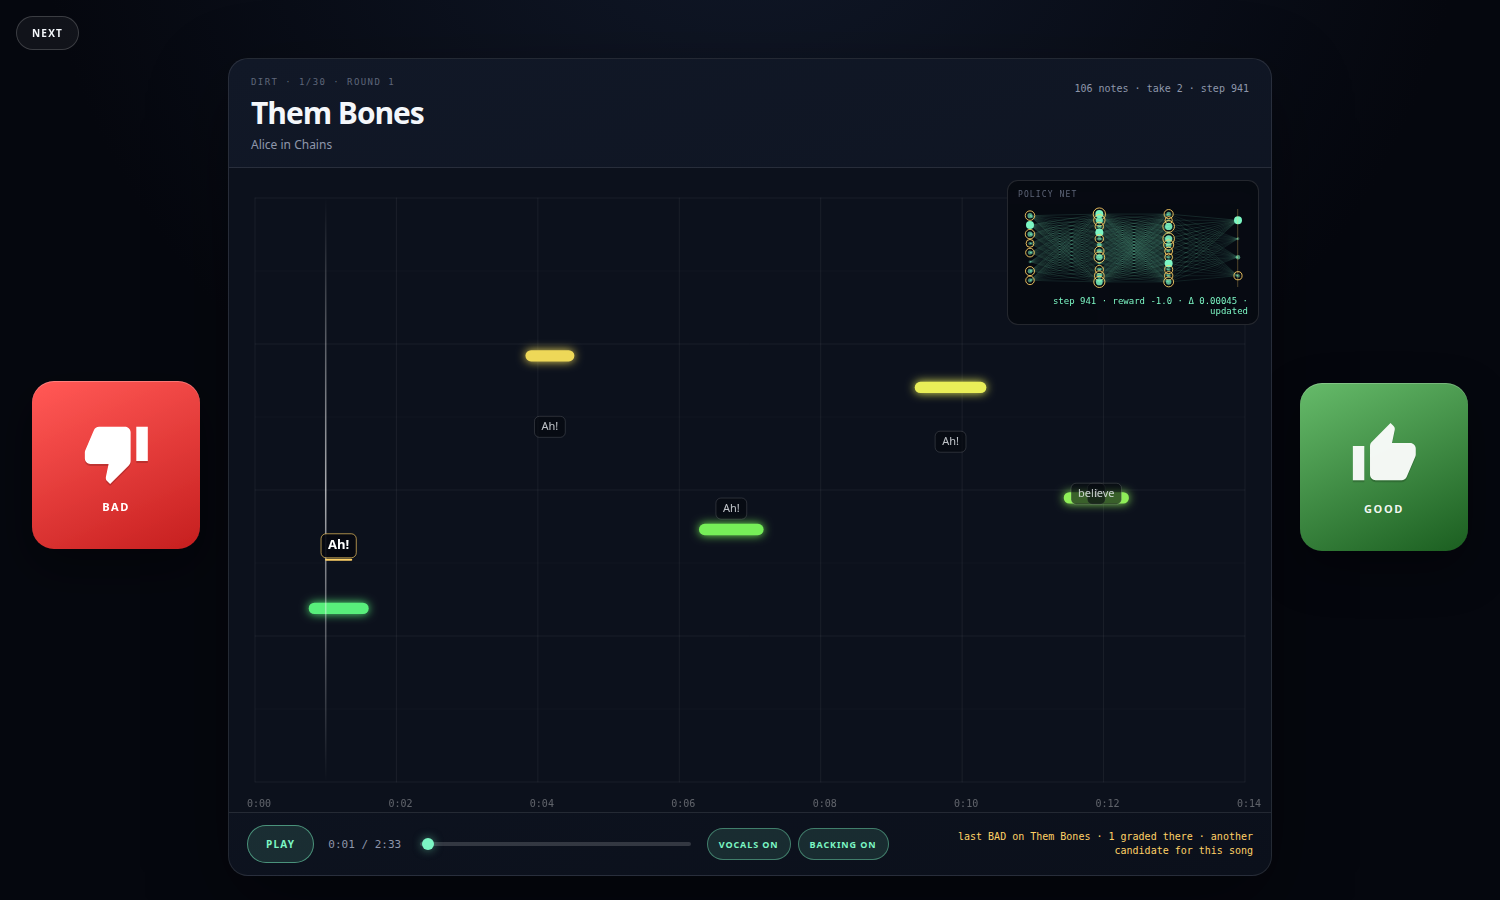
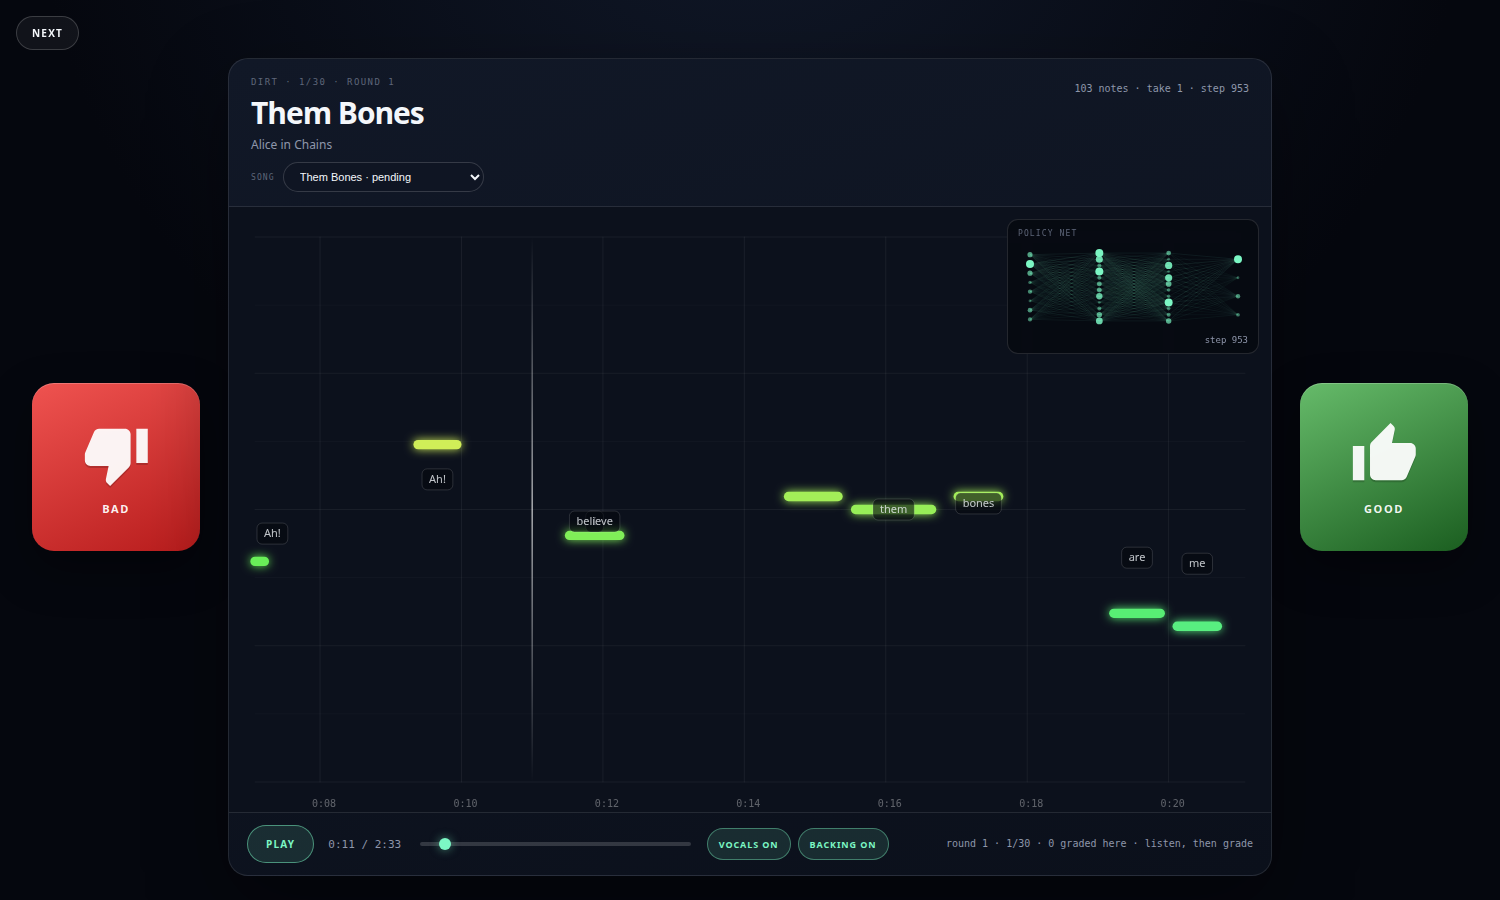
Ignore browser disconnects and add a song picker
Wraps JSON/static/audio responses against BrokenPipeError and ConnectionResetError, and uses a quiet HTTP server so navigating away during a long generation no longer prints tracebacks. Adds a SONG picker grouped by Dirt, Facelift and Jar of Flies; targets with a waiting candidate are marked pending and resume when selected. The state now includes target progress, and selecting a new song saves the queue position before generating or resuming. Also updates the UI screenshot.

diff --git a/automap/automap/ui_assets/app.js b/automap/automap/ui_assets/app.js
@@ -2,6 +2,7 @@ const $ = (id) => document.getElementById(id);
 const canvas = $('canvas');
 const networkCanvas = $('networkCanvas');
 const networkMeta = $('networkMeta');
+const songSelect = $('songSelect');
 const vocals = $('vocals');
 const backing = $('backing');
 const seek = $('seek');
@@ -109,11 +110,39 @@ function statusFor(state) {
       }
       return `last ${good ? 'GOOD' : 'BAD'} on ${event.title} · ${event.grades_for_song || 0} graded there · next ${state.next_title}`;
     }
+    if (event.kind === 'select') {
+      $('status').className = 'status';
+      return `switched to ${event.title} · ${event.grades_for_song || 0} graded there · listen, then grade`;
+    }
     $('status').className = 'status';
     return `skipped ${event.title} · next ${state.next_title}`;
   }
   $('status').className = 'status';
   return `round ${state.round} · ${state.song_index}/${state.song_total} · ${state.grades_for_song} graded here · listen, then grade`;
+}
+
+function populateSongSelect() {
+  if (!state || !Array.isArray(state.targets)) return;
+  const albums = new Map();
+  for (const target of state.targets) {
+    if (!albums.has(target.album)) albums.set(target.album, []);
+    albums.get(target.album).push(target);
+  }
+  songSelect.replaceChildren();
+  for (const [album, targets] of albums) {
+    const group = document.createElement('optgroup');
+    group.label = album;
+    for (const target of targets) {
+      const option = document.createElement('option');
+      option.value = target.song_id;
+      const suffix = target.pending ? ' · pending' : target.graded ? ` · ${target.graded} graded` : '';
+      option.textContent = `${target.title}${suffix}`;
+      group.append(option);
+    }
+    songSelect.append(group);
+  }
+  songSelect.value = state.song_id;
+  songSelect.disabled = busy;
 }
 
 function applyState(next) {
@@ -134,6 +163,7 @@ function applyState(next) {
   $('artist').textContent = state.artist || '';
   $('meta').textContent = `${state.note_count} notes · take ${state.generated_for_song} · step ${state.model_step}`;
   $('status').textContent = statusFor(state);
+  populateSongSelect();
 
   if (songChanged) {
     pauseAll();
@@ -445,9 +475,13 @@ function setBusy(value, message) {
   $('down').disabled = value;
   $('up').disabled = value;
   $('next').disabled = value;
+  songSelect.disabled = value;
   $('loading').hidden = !value;
   if (message) $('loading-text').textContent = message;
-  if (!value) draw();
+  if (!value) {
+    draw();
+    populateSongSelect();
+  }
 }
 
 async function request(url, options = {}) {
@@ -518,6 +552,26 @@ function sendPosition(beacon = false) {
 $('down').addEventListener('click', () => grade(1));
 $('up').addEventListener('click', () => grade(5));
 $('next').addEventListener('click', nextCandidate);
+songSelect.addEventListener('change', async () => {
+  if (!state || busy) return;
+  const songId = songSelect.value;
+  if (songId === state.song_id) return;
+  const target = (state.targets || []).find((item) => item.song_id === songId);
+  setBusy(true, `Loading ${target ? target.title : 'song'}…`);
+  try {
+    const payload = await request('/api/song', {
+      method: 'POST',
+      headers: { 'Content-Type': 'application/json' },
+      body: JSON.stringify({ song_id: songId })
+    });
+    applyState(payload.state);
+  } catch (error) {
+    $('status').textContent = String(error.message || error);
+    songSelect.value = state.song_id;
+  } finally {
+    setBusy(false);
+  }
+});
 $('vocalsToggle').addEventListener('click', () => {
   vocalsOn = !vocalsOn;
   updateToggleLabels();

diff --git a/automap/automap/ui_assets/styles.css b/automap/automap/ui_assets/styles.css
@@ -119,6 +119,32 @@ h1 {
   color: var(--muted);
   font-size: 12px;
 }
+.song-picker {
+  display: flex;
+  align-items: center;
+  gap: 8px;
+  margin-top: 9px;
+}
+.song-picker label {
+  color: var(--muted-2);
+  font-family: ui-monospace, SFMono-Regular, Menlo, monospace;
+  font-size: 8px;
+  letter-spacing: 0.14em;
+}
+#songSelect {
+  min-height: 30px;
+  max-width: min(380px, 52vw);
+  padding: 0 12px;
+  border: 1px solid rgba(255, 255, 255, 0.16);
+  border-radius: 999px;
+  background: #0f1523;
+  color: var(--ink);
+  font-size: 11px;
+  outline: none;
+  cursor: pointer;
+}
+#songSelect:focus { border-color: rgba(124, 247, 196, 0.6); }
+#songSelect:disabled { opacity: 0.4; cursor: default; }
 .meta {
   color: var(--muted);
   font-family: ui-monospace, SFMono-Regular, Menlo, monospace;

diff --git a/automap/automap/ui_assets/index.html b/automap/automap/ui_assets/index.html
@@ -23,6 +23,10 @@
           <div class="eyebrow" id="queue">AUTOGENERATED MAP</div>
           <h1 id="title">Loading…</h1>
           <p id="artist"></p>
+          <div class="song-picker">
+            <label for="songSelect">SONG</label>
+            <select id="songSelect" aria-label="Choose a song"></select>
+          </div>
         </div>
         <div class="meta" id="meta"></div>
       </header>

diff --git a/automap/automap/ui.py b/automap/automap/ui.py
@@ -4,6 +4,7 @@ from __future__ import annotations
 
 import json
 import mimetypes
+import sys
 import threading
 import webbrowser
 from http.server import BaseHTTPRequestHandler, ThreadingHTTPServer
@@ -141,6 +142,22 @@ class Session:
         except Exception:
             return None
 
+    def _targets_payload(self) -> list[dict[str, Any]]:
+        payload: list[dict[str, Any]] = []
+        for target in self.targets:
+            progress = self.queue.songs.get(target.song_id, {})
+            payload.append(
+                {
+                    "song_id": target.song_id,
+                    "title": target.title,
+                    "album": target.album,
+                    "graded": int(progress.get("graded") or 0),
+                    "generated": int(progress.get("generated") or 0),
+                    "pending": load_pending(target.song_id) is not None,
+                }
+            )
+        return payload
+
     def _set_state(self, info: dict[str, Any]) -> None:
         target = self.current_target
         song = self.current_song
@@ -191,6 +208,7 @@ class Session:
             "generated_for_song": int(progress.get("generated") or 0),
             "last_event": self.last_event,
             "network": self._network_summary(),
+            "targets": self._targets_payload(),
             "next_title": next_target.title,
             "next_album": next_target.album,
         }
@@ -243,6 +261,38 @@ class Session:
             self._set_state(info)
             return
         raise RuntimeError("could not generate any target: " + "; ".join(errors))
+
+    def choose_song(self, song_id: str) -> dict[str, Any]:
+        with self.lock:
+            index = self._target_index(song_id)
+            if index is None:
+                raise RuntimeError(f"{song_id} is not a generation target")
+            if self.current_target is not None and self.current_target.song_id == song_id:
+                return self.state or {}
+            target = self.targets[index]
+            self.queue.current_song_id = target.song_id
+            self.queue.next_index = (index + 1) % len(self.targets)
+            progress = self.queue.songs.get(target.song_id, {})
+            self.last_event = {
+                "kind": "select",
+                "grade": 0,
+                "reward": 0.0,
+                "title": target.title,
+                "album": target.album,
+                "grades_for_song": int(progress.get("graded") or 0),
+            }
+            save_queue(self.queue)
+            pending = load_pending(target.song_id)
+            song = self._song(target.song_id)
+            self.current_target = target
+            self.current_song = song
+            if pending is not None:
+                self._set_state_from_pending(pending, target, song)
+            else:
+                info = generate_candidate(target.song_id, install=self.install)
+                mark_generated(self.queue, self.targets, index, target, info)
+                self._set_state(info)
+            return self.state or {}
 
     def _generate_same(self) -> None:
         if self.current_target is None or self.current_song is None:
@@ -343,12 +393,15 @@ class Handler(BaseHTTPRequestHandler):
 
     def _send_json(self, status: int, payload: dict[str, Any]) -> None:
         body = json.dumps(payload, ensure_ascii=False).encode("utf-8")
-        self.send_response(status)
-        self.send_header("Content-Type", "application/json; charset=utf-8")
-        self.send_header("Content-Length", str(len(body)))
-        self.send_header("Cache-Control", "no-store")
-        self.end_headers()
-        self.wfile.write(body)
+        try:
+            self.send_response(status)
+            self.send_header("Content-Type", "application/json; charset=utf-8")
+            self.send_header("Content-Length", str(len(body)))
+            self.send_header("Cache-Control", "no-store")
+            self.end_headers()
+            self.wfile.write(body)
+        except (BrokenPipeError, ConnectionResetError):
+            self.close_connection = True
 
     def _send_static(self, name: str) -> None:
         path = ASSET_DIR / name
@@ -357,12 +410,15 @@ class Handler(BaseHTTPRequestHandler):
             return
         body = path.read_bytes()
         content_type = mimetypes.guess_type(name)[0] or "application/octet-stream"
-        self.send_response(200)
-        self.send_header("Content-Type", content_type)
-        self.send_header("Content-Length", str(len(body)))
-        self.send_header("Cache-Control", "no-store")
-        self.end_headers()
-        self.wfile.write(body)
+        try:
+            self.send_response(200)
+            self.send_header("Content-Type", content_type)
+            self.send_header("Content-Length", str(len(body)))
+            self.send_header("Cache-Control", "no-store")
+            self.end_headers()
+            self.wfile.write(body)
+        except (BrokenPipeError, ConnectionResetError):
+            self.close_connection = True
 
     def _audio_path(self, kind: str) -> Path | None:
         song = self.session.current_song
@@ -403,14 +459,18 @@ class Handler(BaseHTTPRequestHandler):
             except ValueError:
                 start, end, status = 0, size - 1, 200
         length = end - start + 1
-        self.send_response(status)
-        self.send_header("Content-Type", content_type)
-        self.send_header("Content-Length", str(length))
-        self.send_header("Accept-Ranges", "bytes")
-        self.send_header("Cache-Control", "no-store")
-        if status == 206:
-            self.send_header("Content-Range", f"bytes {start}-{end}/{size}")
-        self.end_headers()
+        try:
+            self.send_response(status)
+            self.send_header("Content-Type", content_type)
+            self.send_header("Content-Length", str(length))
+            self.send_header("Accept-Ranges", "bytes")
+            self.send_header("Cache-Control", "no-store")
+            if status == 206:
+                self.send_header("Content-Range", f"bytes {start}-{end}/{size}")
+            self.end_headers()
+        except (BrokenPipeError, ConnectionResetError):
+            self.close_connection = True
+            return
         if head_only:
             return
         try:
@@ -473,7 +533,7 @@ class Handler(BaseHTTPRequestHandler):
 
     def do_POST(self) -> None:
         path = urlparse(self.path).path
-        if path not in {"/api/grade", "/api/next", "/api/position"}:
+        if path not in {"/api/grade", "/api/next", "/api/song", "/api/position"}:
             self.send_error(404)
             return
         length = int(self.headers.get("Content-Length") or 0)
@@ -489,12 +549,18 @@ class Handler(BaseHTTPRequestHandler):
                     float(payload.get("seconds") or 0.0),
                     payload.get("candidate_id"),
                 )
-                self.send_response(204)
-                self.end_headers()
+                try:
+                    self.send_response(204)
+                    self.end_headers()
+                except (BrokenPipeError, ConnectionResetError):
+                    self.close_connection = True
                 return
-            elif path == "/api/next":
-                state = self.session.next_candidate()
+            if path == "/api/song":
+                state = self.session.choose_song(str(payload.get("song_id") or ""))
                 self._send_json(200, {"state": state})
+                return
+            if path == "/api/next":
+                state = self.session.next_candidate()
             else:
                 grade = int(payload.get("grade", 0))
                 if grade not in {1, 2, 3, 4, 5}:
@@ -502,8 +568,20 @@ class Handler(BaseHTTPRequestHandler):
                     return
                 state = self.session.grade(grade, payload.get("candidate_id"))
             self._send_json(200, {"state": state})
+        except (BrokenPipeError, ConnectionResetError):
+            self.close_connection = True
         except Exception as error:
             self._send_json(409, {"error": str(error)})
+
+
+class QuietServer(ThreadingHTTPServer):
+    """Suppress tracebacks from clients that navigate away mid-response."""
+
+    def handle_error(self, request, client_address) -> None:
+        error = sys.exc_info()[1]
+        if isinstance(error, (BrokenPipeError, ConnectionResetError)):
+            return
+        super().handle_error(request, client_address)
 
 
 def run_ui(
@@ -531,7 +609,7 @@ def run_ui(
     )
     print("Loading the approved-map anchor…")
     session = Session(targets, queue, install=install)
-    server = ThreadingHTTPServer((host, port), Handler)
+    server = QuietServer((host, port), Handler)
     server.session = session  # type: ignore[attr-defined]
     url = f"http://{host}:{port}/"
     print(f"Autogenerator UI: {url}")

diff --git a/automap/README.md b/automap/README.md
@@ -101,6 +101,10 @@ The top-right **POLICY NET** panel shows the live policy network, model step,
 last loss and the normalized weight delta after a grade. A grade pulses the
 network, highlights changed nodes in gold, and increments the `take N` counter.
 
+A **SONG** picker above the preview lists all 30 targets grouped by album.
+Songs with an ungraded candidate are marked **pending**; choosing one resumes
+that candidate instead of throwing it away.
+
 The transport has:
 
 - **PLAY / PAUSE**
@@ -141,12 +145,18 @@ Everything needed to continue later is saved automatically:
 - the neural checkpoint after **every grade**
 - `state/queue.json`, which stores the current target, round, next song, and
   per-song generated/graded/skipped counts
-- the waiting candidate under `state/pending-<song-id>.npz`
+- every waiting candidate under `state/pending-<song-id>.npz`
 - your playback position every 5 seconds and when you close the page
+
+Passing `--song` or using the SONG picker switches targets immediately. A song
+that already has a waiting candidate resumes that candidate; otherwise a new
+one is generated.
 
 Close the browser or stop the server at any time. Run `./start-ui.sh` again and
 it resumes the waiting candidate at the saved position. After a grade it either
-retries the same song (BAD) or continues with the next song (GOOD).
+retries the same song (BAD) or continues with the next song (GOOD). Browser
+disconnects during a long generation are ignored cleanly; the server still
+finishes and saves the candidate.
 
 To start at a specific target instead of resuming the queue:
 
